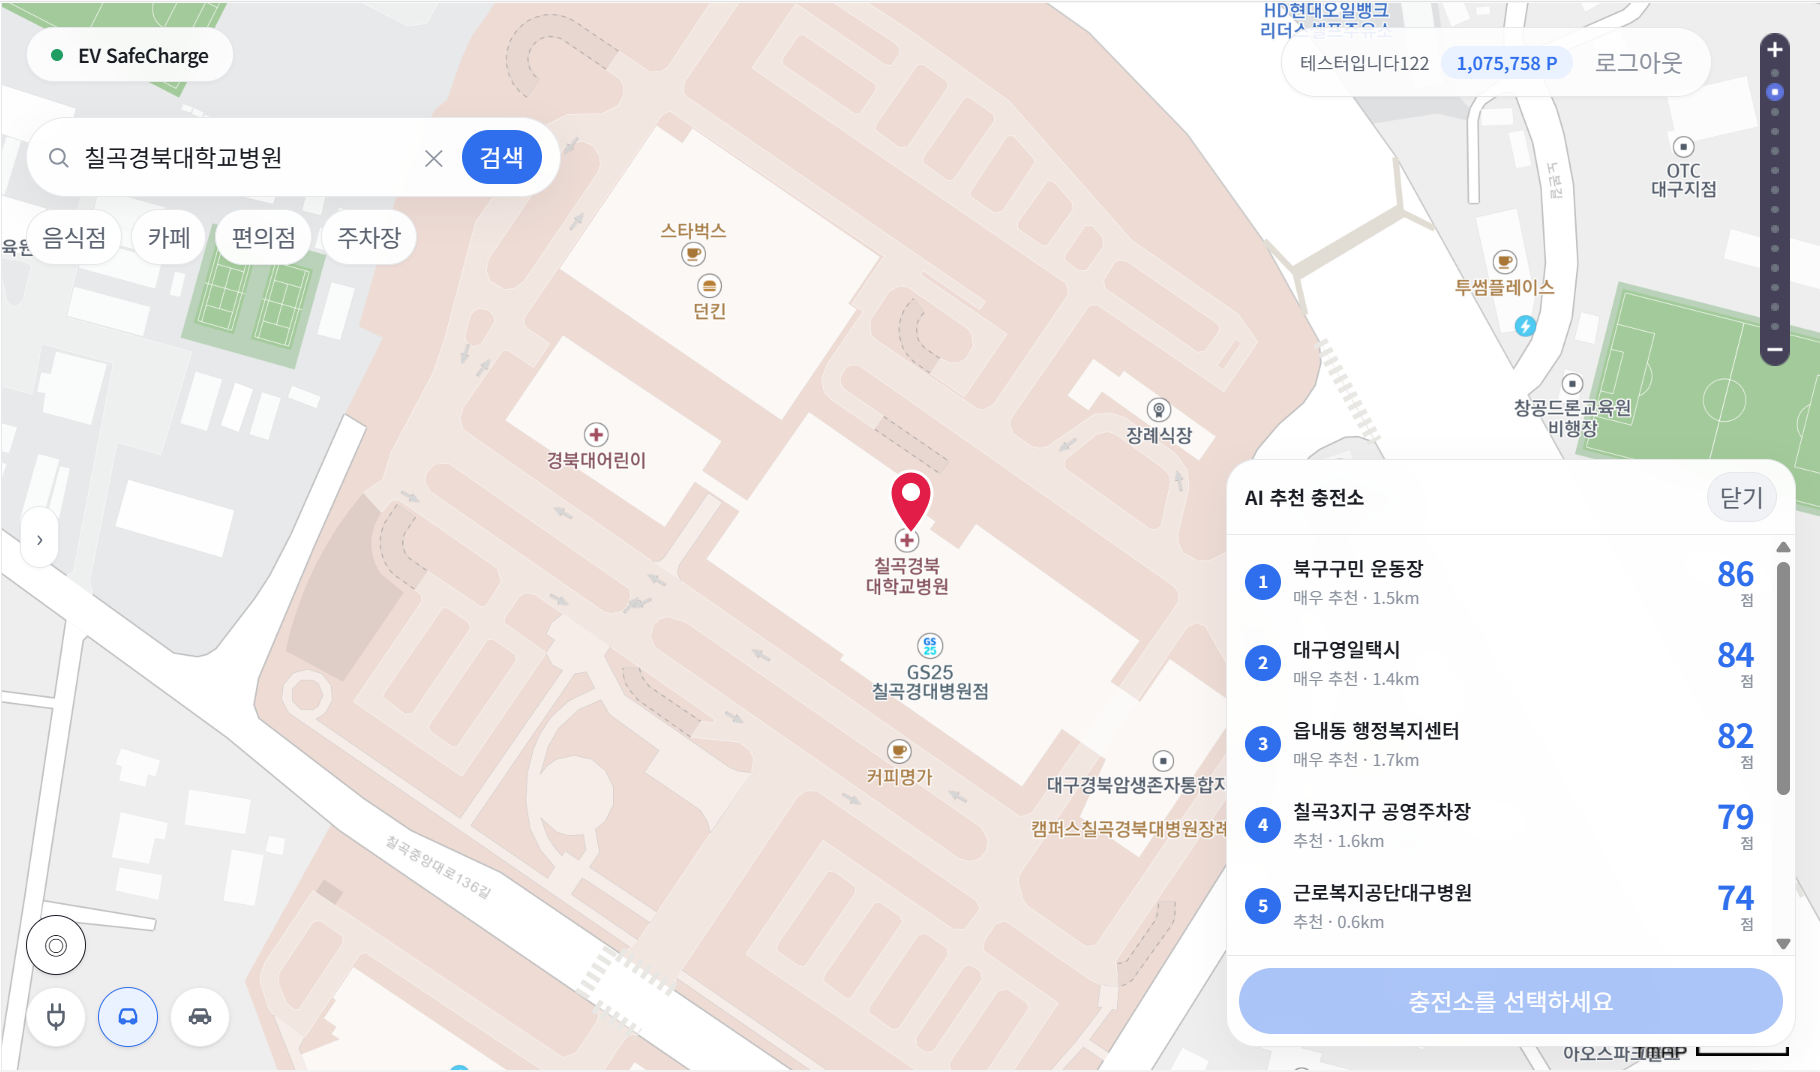
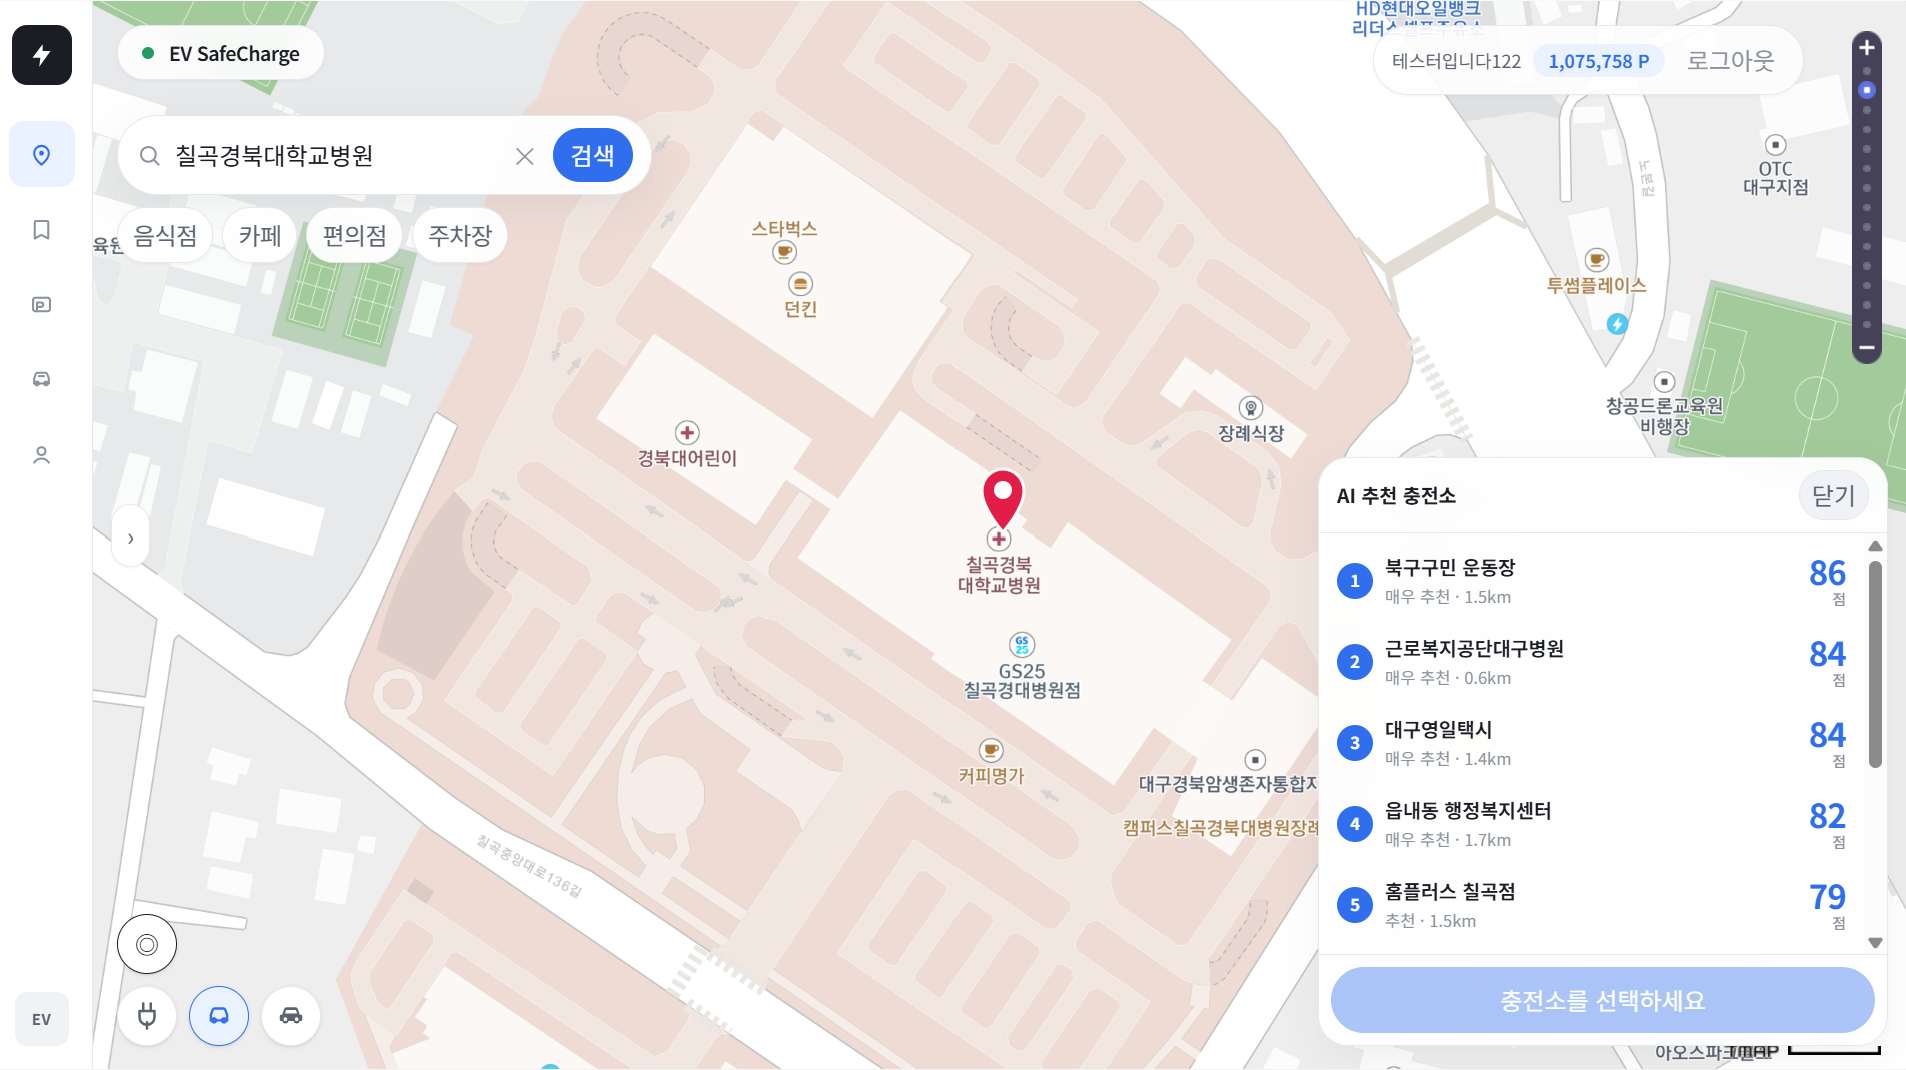
데모 스크린샷 교체 · README 표를 새 실행 수치로 갱신
새로 캡처한 화면은 브라우저 크롬도 뒤쪽 창도 없다(1906x1070). 다만 추천
결과가 이전 실행과 달라 표와 서술을 다시 맞췄다.

이전 서술("가장 가까운 0.6km 가 5위")은 이 실행에서 성립하지 않는다 —
근로복지공단대구병원(0.6km)이 2위 84점이다. 대신 더 나은 대조가 생겼다:

- 1위와 5위가 **둘 다 1.5km** 인데 86점 vs 79점
- 2위(0.6km)와 3위(1.4km)가 **동점 84점**

거리가 같아도 갈리고 달라도 같다는 두 쌍이 한 화면에 있어서, 가용확률 50점
대 경로 20점이라는 배점을 설명하기에 오히려 낫다.

diff --git a/README.md b/README.md
@@ -9,28 +9,32 @@
 `POST /api/v1/chargers/recommend`가 산출한다** — 등급 임계값은
 [`scoring.py`](recommend_api/scoring.py)의 `recommendation_label()`.</sub>
 
-**이 화면의 핵심은 5위다.**
+**같은 거리인데 점수가 다르고, 다른 거리인데 점수가 같다.**
 
 | 순위 | 충전소 | 거리 | 점수 |
 |---|---|---:|---:|
-| 1 | 북구구민 운동장 | 1.5km | **86** |
-| 2 | 대구영일택시 | 1.4km | 84 |
-| 3 | 읍내동 행정복지센터 | 1.7km | 82 |
-| 4 | 칠곡3지구 공영주차장 | 1.6km | 79 |
-| **5** | **근로복지공단대구병원** | **0.6km** | **74** |
+| 1 | 북구구민 운동장 | **1.5km** | **86** |
+| 2 | 근로복지공단대구병원 | 0.6km | 84 |
+| 3 | 대구영일택시 | 1.4km | 84 |
+| 4 | 읍내동 행정복지센터 | 1.7km | 82 |
+| 5 | 홈플러스 칠곡점 | **1.5km** | **79** |
 
-**가장 가까운 곳이 꼴찌다.** 거리로 정렬했다면 0.6km가 1위여야 한다.
-이 시스템은 그렇게 하지 않는다 — 100점 중 **50점이 "도착 시점에 비어 있을 확률"** 이고,
-경로 관련 배점은 20점뿐이다. 조금 멀어도 비어 있을 곳이 가깝지만 차 있을 곳을 이긴다.
+두 쌍을 보면 이 시스템이 무엇으로 순위를 정하는지 드러난다.
+
+- **1위와 5위는 거리가 똑같이 1.5km인데 7점 차이가 난다.** 거리로는 설명이 안 된다.
+- **2위(0.6km)와 3위(1.4km)는 거리가 2배 넘게 차이나는데 동점 84점이다.**
+
+100점 중 **50점이 "도착 시점에 비어 있을 확률"** 이고 경로 관련 배점은 20점뿐이기 때문이다.
+거리는 순위를 흔드는 여러 변수 중 하나일 뿐, 지배 변수가 아니다.
 
 | 화면 | 응답 필드 |
 |---|---|
-| `86` · `84` · `74` | `recommendation_score` — 가용확률 50 + 경로시간 15 + 충전기수 15 + 속도 10 + 경로거리 5 + 신선도 5 |
+| `86` · `84` · `79` | `recommendation_score` — 가용확률 50 + 경로시간 15 + 충전기수 15 + 속도 10 + 경로거리 5 + 신선도 5 |
 | `매우 추천` (≥80) / `추천` (≥65) | `recommendation_label` |
 | `1.5km` · `0.6km` | `distance_m` |
 
 그래서 이 프로젝트는 정확도(AUC)만큼 **캘리브레이션(Brier·ECE)** 을 같은 비중으로 본다.
-확률이 순위를 정하는 게 아니라 **점수의 절반을 그대로 차지**하기 때문에,
+확률이 순위만 정하는 게 아니라 **점수의 절반을 그대로 차지**하기 때문에,
 "70%"라고 했으면 실제로 70%여야 한다.
 
 > 실제로 운영에서 **0.45인 확률이 0.86으로 나가고 있었다.** 그걸 찾아 고친 기록이
